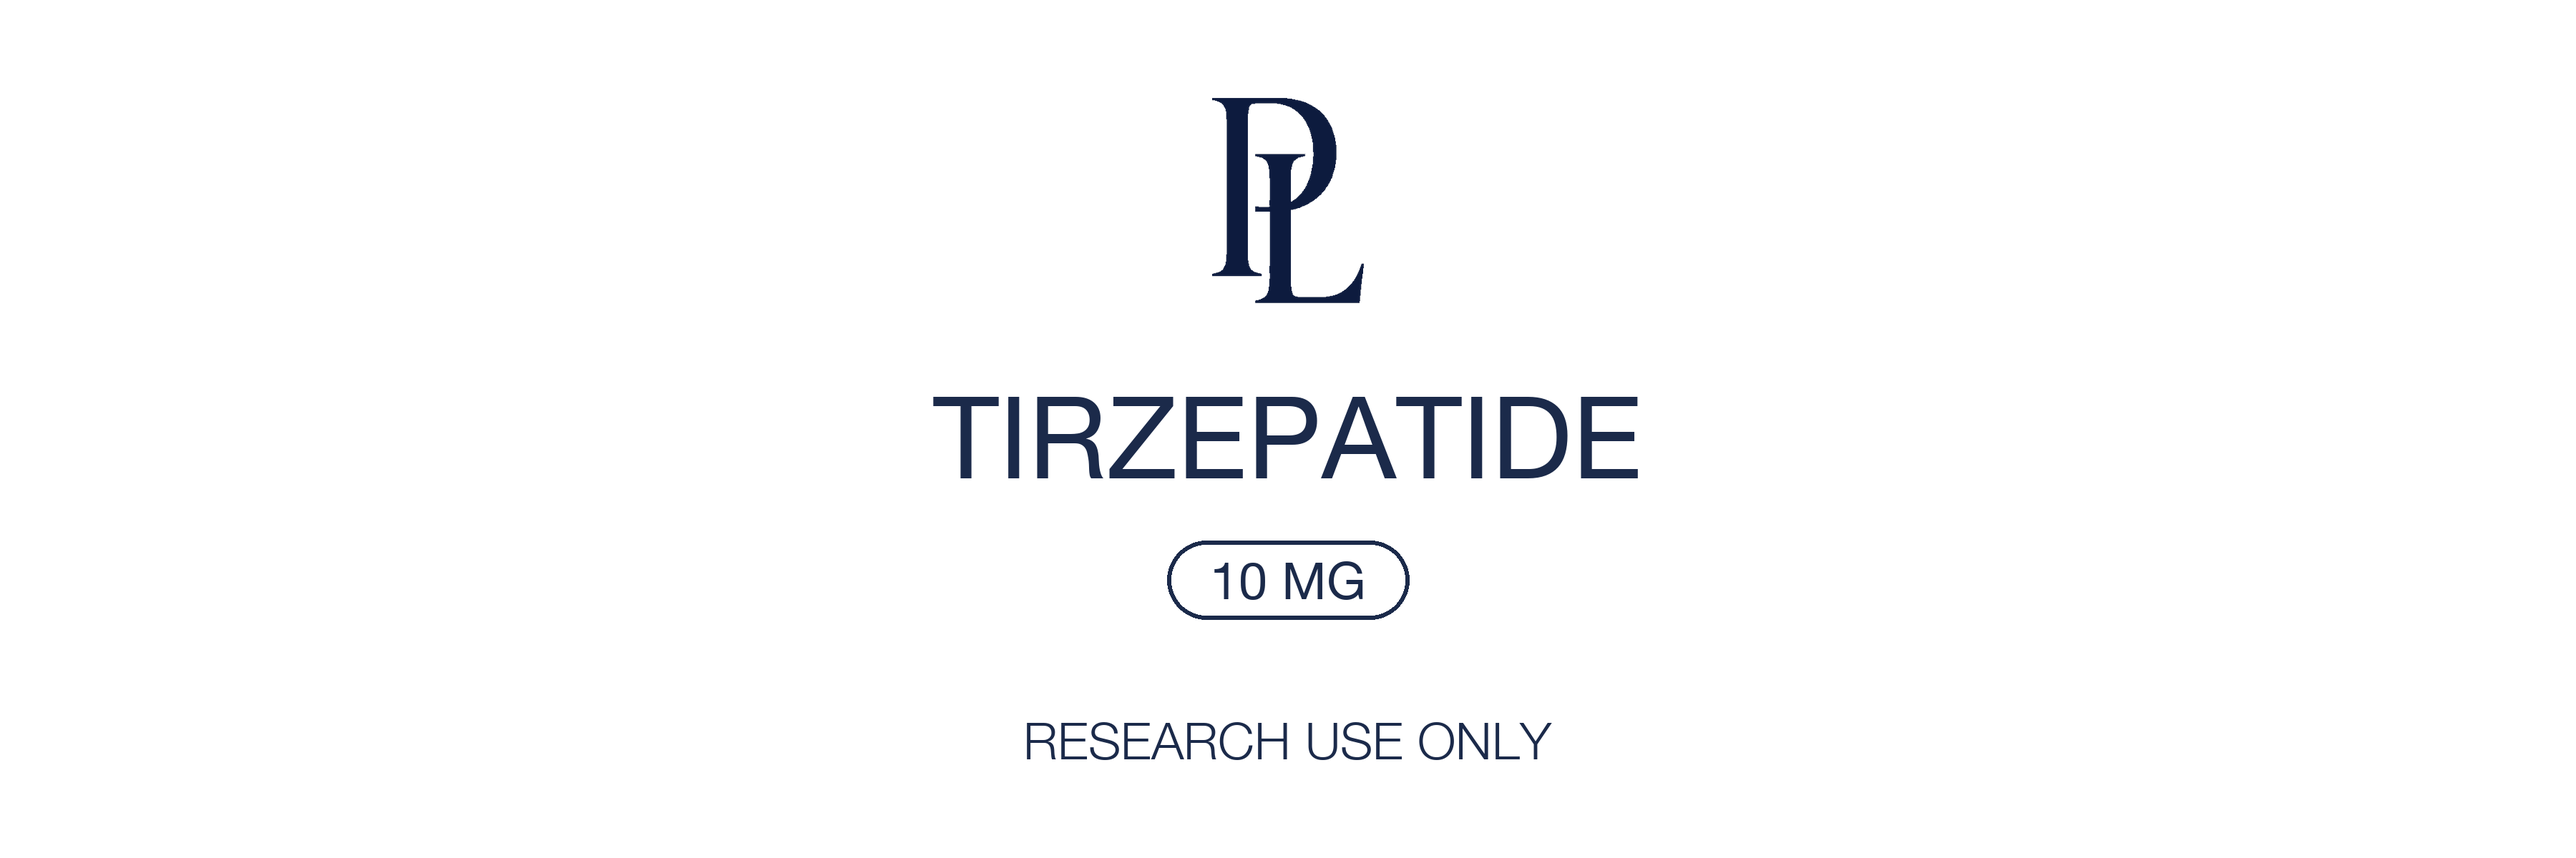
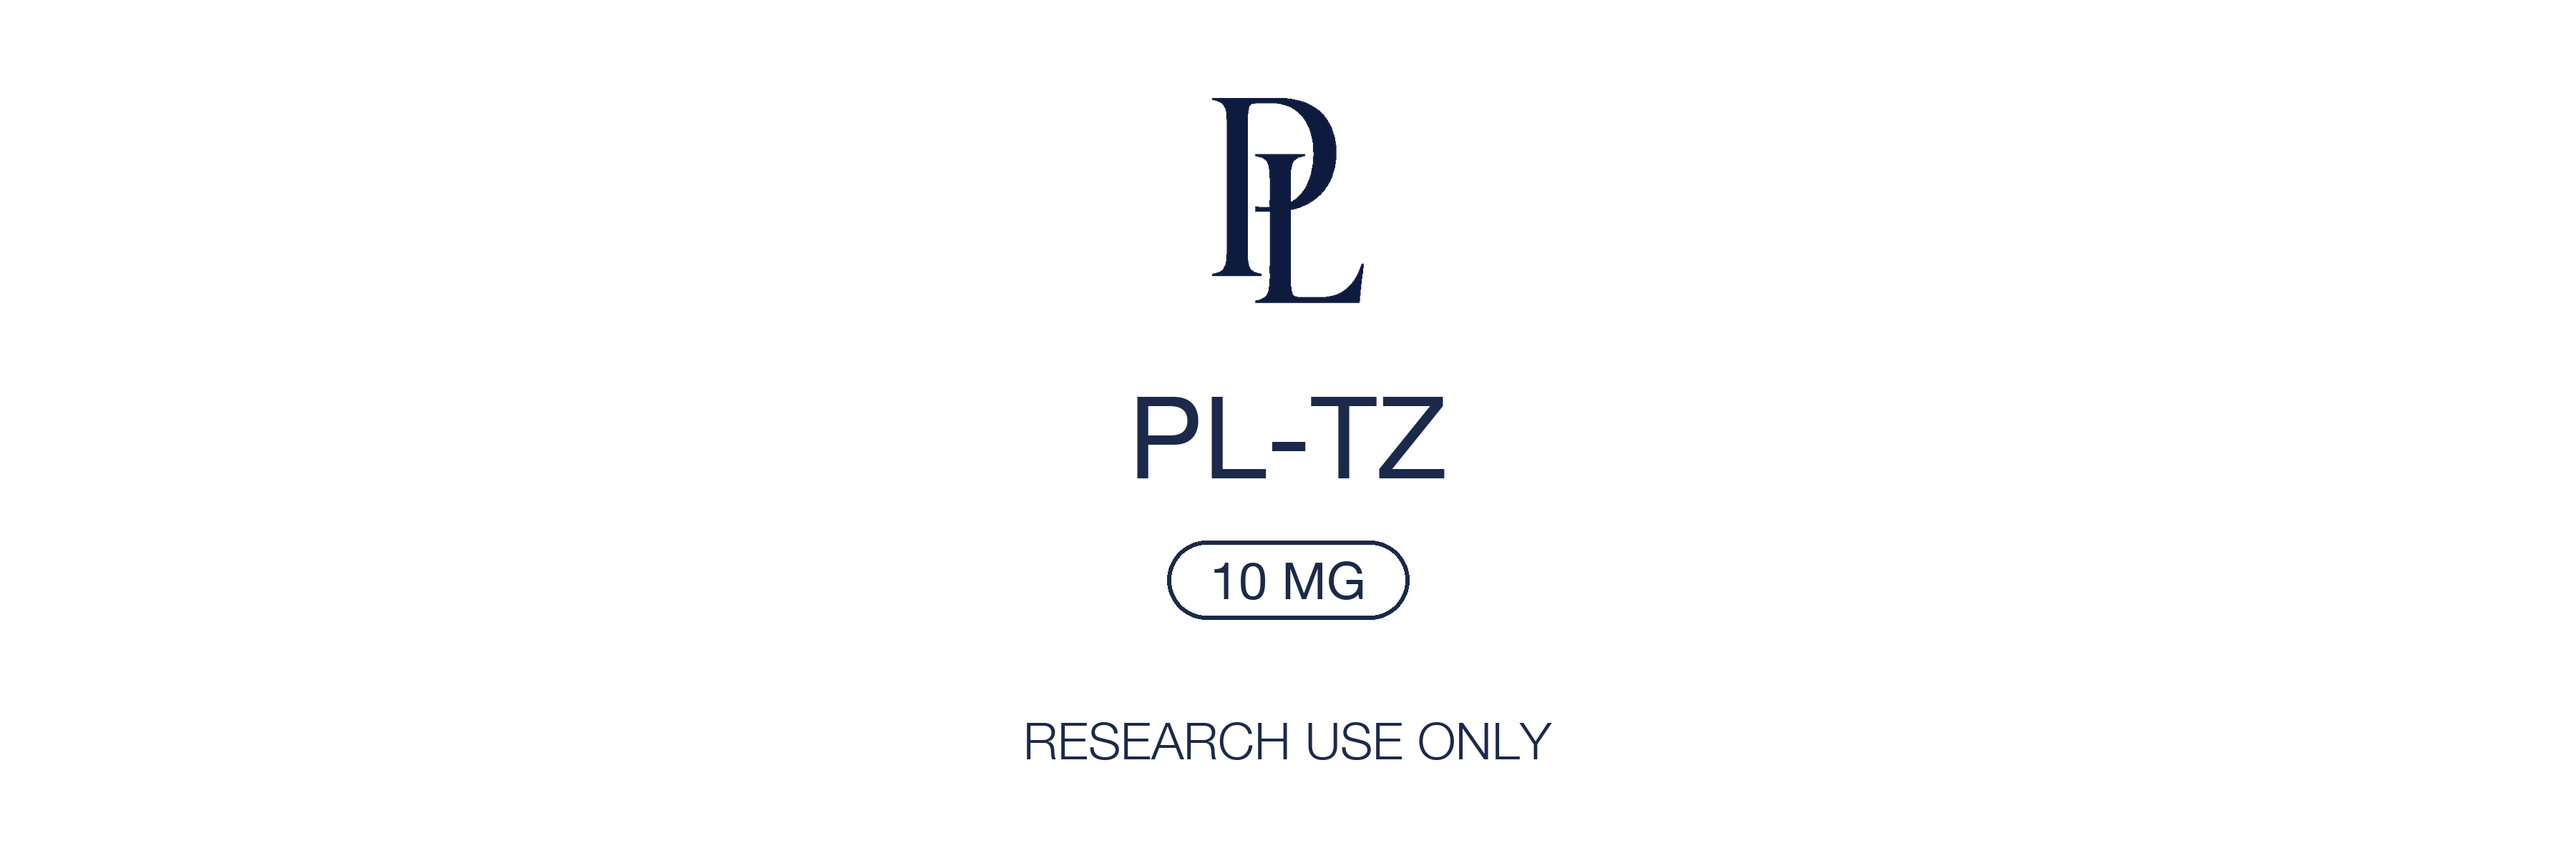
fix: update tirzepatide label text to PL-TZ

Changed region(s): [[0.3422, 0.4625, 0.6533, 0.555]]

diff --git a/scripts/generate-labels.py b/scripts/generate-labels.py
@@ -117,7 +117,7 @@ PRODUCTS = [
     ("label-mt2.png",         "MT-2",                  "10 MG"),
     ("label-semax.png",       "SEMAX",                 "10 MG"),
     ("label-selank.png",      "SELANK",                "10 MG"),
-    ("label-tirzepatide.png", "TIRZEPATIDE",           "10 MG"),
+    ("label-tirzepatide.png", "PL-TZ",                 "10 MG"),
     ("label-igf1lr3.png",     "IGF-1-LR3",             "1 MG"),
     ("label-tesamorelin.png", "TESAMORELIN",           "5 MG"),
     ("label-klow.png",        "KLOW",                  "80 MG"),
